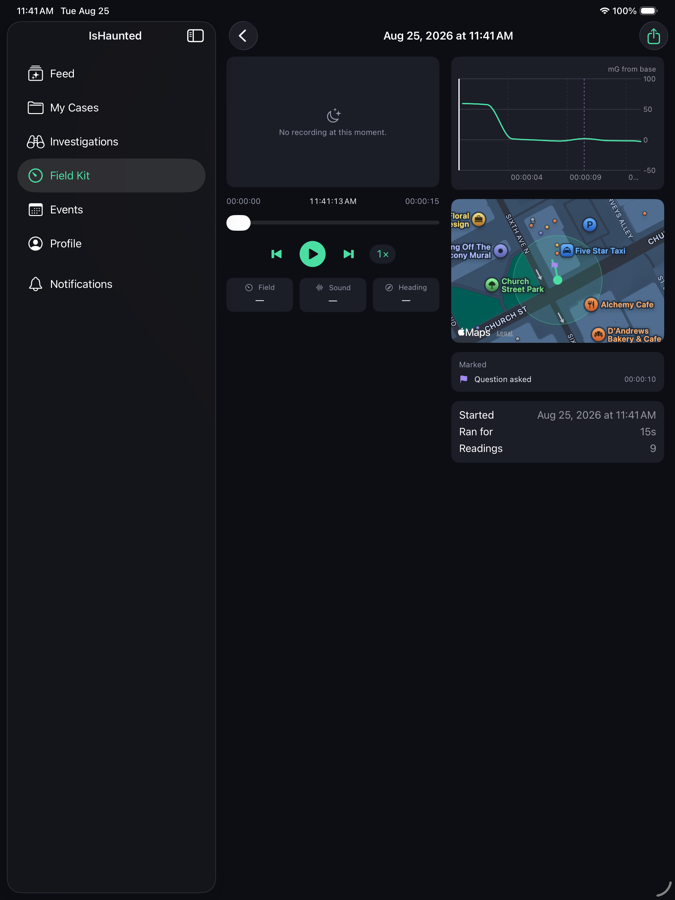
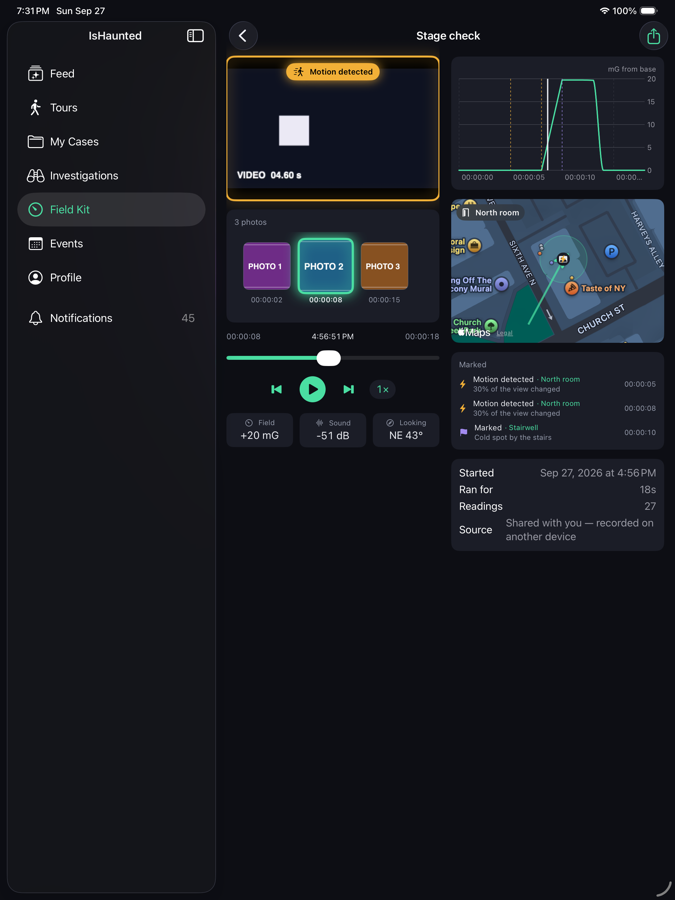
iOS: the iPad New session sheet shows its button; the lit photo keeps its time readable; help pictures
Found capturing the help: on iPad Open the session was below the fold of the form sheet,
and a place name the phone filled in was sometimes called 'your own words' (a flag raced
onChange). On the phone the grown thumbnail covered its time, green on green, and its
glow smeared over its neighbours. New captures for the New session sheet, Public
sessions and the review on iPhone and iPad; the capture signs out before switching
accounts, since a restored session beats -autoSignIn.

diff --git a/Ben.iOS/IsHauntedUITests/HelpMediaCaptureTests.swift b/Ben.iOS/IsHauntedUITests/HelpMediaCaptureTests.swift
@@ -50,6 +50,25 @@ final class HelpMediaCaptureTests: XCTestCase {
         Thread.sleep(forTimeInterval: seconds)
     }
 
+    /// Relaunches signed in as somebody else, with scripted sensors.
+    ///
+    /// Signs the current account out first. `-autoSignIn` is a no-op over a restored session
+    /// (`SessionStore.signIn` returns unless signed out), so relaunching with James's credentials
+    /// after `setUp` signed Daniel in kept Daniel — and the Field Kit pictures were of an account
+    /// with nothing on the server, with no error anywhere (2026-09-27).
+    private func relaunch(as email: String, password: String) {
+        settle(4)   // let setUp's own sign-in land before undoing it
+        if AppNavigator.openSection("Profile", in: app, timeout: 20) {
+            let signOut = app.descendants(matching: .any)["Sign out"].firstMatch
+            for _ in 0..<4 where !signOut.exists { app.swipeUp() }
+            if signOut.exists { signOut.tap(); settle(3) }
+        }
+        app.terminate()
+        app.launchArguments = apiArguments + ["-fieldKitFakeSensors", "-autoSignIn", "\(email):\(password)"]
+        app.launch()
+        settle(6)
+    }
+
     /// My evidence — the guest's own copy of what they photographed at somebody's public event.
     ///
     /// Daniel is the account on purpose: he belongs to no group and has a confirmed attendance at
@@ -129,12 +148,8 @@ final class HelpMediaCaptureTests: XCTestCase {
     func testCaptureFieldKitBundles() {
         let email = ProcessInfo.processInfo.environment["BEN_MEMBER_EMAIL"] ?? "james.thornton@benco.dev"
         let password = TestSecrets.required("BEN_MEMBER_PASSWORD")
-        settle(4)
-        app.terminate()
         // Scripted sensors: a simulator has no magnetometer, and the Field Kit refuses to open without one.
-        app.launchArguments = apiArguments + ["-fieldKitFakeSensors", "-autoSignIn", "\(email):\(password)"]
-        app.launch()
-        settle(6)
+        relaunch(as: email, password: password)
 
         XCTAssertTrue(AppNavigator.openSection("Field Kit", in: app), "Could not reach the Field Kit.")
         settle(3)
@@ -157,6 +172,76 @@ final class HelpMediaCaptureTests: XCTestCase {
         }
         settle(1)
         snap("iphone-review-imported")
+    }
+
+    /// The New session sheet, Public sessions, and a review at the moment a photograph glows and the
+    /// camera saw motion (2026-09-27).
+    ///
+    /// James again, for the same reason as above — and because the review is his own "Stage check"
+    /// sent up by the browser tests, the one session on the stack with a video, its sound, three
+    /// photographs and a Motion detected mark at 0:08. Set the simulator's location near the seeded
+    /// places first (`xcrun simctl location <udid> set 36.1627,-86.7816`), or the sheet has no place
+    /// to offer and the public list is empty. Runs on either device; the names follow it.
+    func testCaptureStartAndPublicAndReview() throws {
+        let email = ProcessInfo.processInfo.environment["BEN_MEMBER_EMAIL"] ?? "james.thornton@benco.dev"
+        let password = TestSecrets.required("BEN_MEMBER_PASSWORD")
+        let device = UIDevice.current.userInterfaceIdiom == .pad ? "ipad" : "iphone"
+        relaunch(as: email, password: password)
+
+        XCTAssertTrue(AppNavigator.openSection("Field Kit", in: app), "Could not reach the Field Kit.")
+        settle(2)
+        AppNavigator.startNewSession(in: app)
+        XCTAssertTrue(app.buttons["confirm-start-session"].waitForExistence(timeout: 15))
+        // The place and the nearby count arrive after the sheet does — a first launch's position
+        // takes a while, and the first capture was of "Finding where you are…".
+        let label = app.textFields["session-label"].firstMatch
+        let placeholder = label.placeholderValue ?? ""
+        for _ in 0..<30 {
+            let value = label.value as? String ?? ""
+            if !value.isEmpty, value != placeholder { break }
+            settle(1)
+        }
+        settle(2)
+        snap("\(device)-new-session")
+        app.buttons["Cancel"].firstMatch.tap()
+        settle(1)
+
+        let find = app.buttons["find-public-sessions"].firstMatch
+        XCTAssertTrue(find.waitForExistence(timeout: 10), "Find public sessions should be on the Field Kit.")
+        find.tap()
+        XCTAssertTrue(app.descendants(matching: .any)["public-session-row"].firstMatch.waitForExistence(timeout: 20),
+                      "Public sessions near the simulator's location should be listed.")
+        settle(2)
+        snap("\(device)-public-sessions")
+        app.navigationBars.buttons.firstMatch.tap()
+        settle(2)
+
+        // Downloaded by an earlier run, it is in the phone's own list instead of the server's.
+        let download = app.buttons.matching(NSPredicate(format: "label == %@", "Download Stage check to this phone")).firstMatch
+        let onThePhone = app.buttons.matching(NSPredicate(format: "label BEGINSWITH %@", "Stage check")).firstMatch
+        // A List draws rows only near the screen, and a simulator that has run the suite holds a long list.
+        _ = download.waitForExistence(timeout: 8)
+        for _ in 0..<12 where !(download.exists && download.isHittable) && !(onThePhone.exists && onThePhone.isHittable) {
+            app.swipeUp()
+        }
+        if download.exists {
+            download.tap()
+        } else if onThePhone.exists {
+            onThePhone.tap()
+        } else {
+            let tree = XCTAttachment(string: app.debugDescription)
+            tree.name = "field-kit-without-stage-check"
+            tree.lifetime = .keepAlways
+            add(tree)
+            throw XCTSkip("no \"Stage check\" on the server or the phone for this account — run the browser FieldSessionStageTests first")
+        }
+        let scrubber = app.sliders["replay-scrubber"].firstMatch
+        XCTAssertTrue(scrubber.waitForExistence(timeout: 30), "The downloaded session should open on its review.")
+        settle(3)
+        // 0:08.6 of 0:18: the second photograph is lit and Motion detected is showing.
+        scrubber.adjust(toNormalizedSliderPosition: 8.6 / 18)
+        settle(1)
+        snap("\(device)-review")
     }
 
     /// During the event: the event's own screen, its programme, a menu and the room (item 235 phase 14b).

diff --git a/Ben.iOS/IsHaunted/Features/FieldKit/SessionReviewView.swift b/Ben.iOS/IsHaunted/Features/FieldKit/SessionReviewView.swift
@@ -345,15 +345,16 @@ struct SessionReviewView: View {
                     .font(.caption).foregroundStyle(Theme.fog)
                 ScrollViewReader { proxy in
                     ScrollView(.horizontal, showsIndicators: false) {
-                        HStack(spacing: 8) {
+                        // Room for a thumbnail grown by 15% with its ring and glow — between
+                        // neighbours and at the strip's edges — or the lit one smears over the
+                        // photos beside it and its glow is cut off flat at the top.
+                        HStack(spacing: 18) {
                             ForEach(photos) { photo in
                                 photoThumbnail(photo).id(photo.id)
                             }
                         }
-                        // Room for a thumbnail grown by 15% and its glow, or the first one is
-                        // cut off at the strip's edge while it is lit.
-                        .padding(.horizontal, 10)
-                        .padding(.vertical, 10)
+                        .padding(.horizontal, 14)
+                        .padding(.vertical, 16)
                     }
                     // Keeps the photo the playhead last passed in view, so the glow is seen.
                     .onChange(of: ReplayPhotos.lastPassed(photos, at: replay.playhead)?.id) { _, id in
@@ -375,7 +376,8 @@ struct SessionReviewView: View {
         let glowing = ReplayPhotos.isGlowing(photo, at: replay.playhead)
         let url = store.files.fileURL(for: sessionId, relativePath: photo.relativePath)
         return Button { expand(photo) } label: {
-            VStack(spacing: 3) {
+            // Spaced for the grown thumbnail, which would otherwise sit on its own time.
+            VStack(spacing: 9) {
                 ZStack {
                     if expandedPhoto?.id == photo.id {
                         // Its place in the strip is kept while it is out, so it has somewhere to
@@ -400,9 +402,10 @@ struct SessionReviewView: View {
                 .shadow(color: glowing ? Theme.ecto.opacity(0.9) : .clear, radius: glowing ? 8 : 0)
                 .scaleEffect(glowing ? 1.15 : 1)
                 .animation(.spring(duration: 0.35), value: glowing)
+                // Full contrast while lit — green on the green glow could not be read.
                 Text(SessionClock.elapsed(from: replay.timeline.startedAt, to: photo.at))
-                    .font(.caption2.monospacedDigit())
-                    .foregroundStyle(glowing ? Theme.ecto : Theme.fog)
+                    .font(.caption2.monospacedDigit().weight(glowing ? .semibold : .regular))
+                    .foregroundStyle(glowing ? Theme.bone : Theme.fog)
             }
         }
         .buttonStyle(.plain)

diff --git a/Ben.iOS/IsHaunted/Features/FieldKit/FieldKitHomeView.swift b/Ben.iOS/IsHaunted/Features/FieldKit/FieldKitHomeView.swift
@@ -180,6 +180,10 @@ struct FieldKitHomeView: View {
                 await start(label: label, investigation: investigation, channels: channels)
             }
             .environment(dependencies)
+            // On an iPad the default form sheet is shorter than the sheet, so Open the session —
+            // its only action — sat below the fold where nobody would look for it. A page-sized
+            // sheet shows it; on an iPhone this changes nothing.
+            .presentationSizing(.page)
         }
         // Ben, 2026-09-27: "If they have recorded a session, just save it and ask if they want to
         // create a new one when they hit the start button instead of making them deal with it
@@ -424,9 +428,12 @@ private struct StartSessionSheet: View {
     var onStart: (String?, MyInvestigation?, CaptureChannels) async -> Void
 
     @State private var label = ""
-    /// Whether the label is still the phone's suggestion — replaced when a better one arrives, never
-    /// once somebody has typed their own.
-    @State private var labelIsSuggested = false
+    /// The phone's last suggestion for the label. The label is still that suggestion — replaced when
+    /// a better one arrives, never once somebody has typed their own — while the two are equal. A
+    /// flag set in a deferred task and cleared by `onChange` raced on the iPad, and the footer then
+    /// called a name the phone filled in "your own words".
+    @State private var suggestedLabel: String?
+    private var labelIsSuggested: Bool { suggestedLabel != nil && label == suggestedLabel }
     @State private var channels: CaptureChannels = .default
     @State private var investigations: [MyInvestigation] = []
     /// Selected by id, not by value — MyInvestigation is a server-shaped record and making it
@@ -556,7 +563,6 @@ private struct StartSessionSheet: View {
     private var whereSection: some View {
         Section {
             TextField("Where are you? (Old Mill, back bedroom)", text: $label)
-                .onChange(of: label) { _, _ in labelIsSuggested = false }
                 .accessibilityIdentifier("session-label")
 
             switch locator.access {
@@ -611,9 +617,8 @@ private struct StartSessionSheet: View {
 
     private func useName(_ name: String?) {
         guard let name, !name.isEmpty else { return }
+        suggestedLabel = name
         label = name
-        // Set after the text change, which clears the flag for anything typed.
-        Task { @MainActor in labelIsSuggested = true }
     }
 
     /// Where the phone is, and what that suggests: a name, nearby investigations, public sessions.

diff --git a/ProjectNotes/FeatureHistory/README-ios-field-session-feedback.md b/ProjectNotes/FeatureHistory/README-ios-field-session-feedback.md
@@ -81,3 +81,77 @@ Then, as next steps in the same arc:
 
 A simulator has no camera and a Mac microphone. Loudness and whole-session video must be checked
 on Ben's iPhone before this ships; `RecordingGain.decibels` is the single number to adjust.
+
+## Later asks folded in (09/27/2026)
+
+- **Start with a session still open** saves a recording one and replaces an unstarted one, after
+  asking — Ben: "just save it and ask if they want to create a new one".
+- **Motion photos**: a detection while the phone is still also takes a photograph.
+- **Thumbnails grow a little while they glow; tapping one pauses and shows it full size, tapping
+  again carries on playing** — phone and web alike.
+- **Refused permissions** (camera, microphone, location, speech, notifications) say so and offer
+  Settings wherever something needs them.
+- **Upload allowance**: 10 minutes of video and 600 MB per upload (was 5 and 500), with **Send
+  without the video**.
+
+## What testing found (and fixed)
+
+Walked on the iPhone 17 Pro simulator, in real Chrome, and through the API, against a local server
+on `IsHauntedDb_e2e`, with a session written by the phone's own code
+(`TestSessionBundleBuilder.swift`; the short profile is the browser tests' fixture).
+
+- Photo thumbnails overlapped (a `.fill` image sized on a container that clips nothing); the lit
+  thumbnail was cut off at the strip's edge; the full-size photo sat on a grey card under the bars.
+- The server counted every photo, video and sound note as a mark ("8 marked" for 3). Fixed at the
+  door, in the web player's list, and for stored sessions by `FieldSessionMarkerRecountService`.
+- Every review opened at 0:00 said "No recording at this moment" — the recorder starts a few
+  milliseconds after the clock. A clip within a second of the playhead now covers it, phone and web.
+- After **Open Settings**, no permission prompt on that screen appeared again (the alert's state
+  was never cleared while the app went to the background).
+- EVP mode's Start recording failed silently with the microphone refused; three screens opened a
+  black system camera with the camera refused.
+- A refused microphone produced a silent recording with no warning (found while building).
+- The web player's icons, Play and Pause included, never drew: Bootstrap Icons classes on a site
+  that does not load that font. Nine other pages have the same problem — flagged separately.
+- Tests: the Field Kit UI suites cascaded from one unstarted session into the new save-and-start
+  question; `AppNavigator.startNewSession` answers it. `RealAppSessionReplayTests` had a hard-coded
+  room.
+
+Second pass (the trim suite against a local API, the iPad, and the help captures):
+
+- **Send screen**: the "what will be sent" summary and **Send the whole session** sat under the
+  preview, a screen below the handles — a List had not even drawn them. They are under the handles
+  now. The trim UI tests had only ever been skipped; run against a local API they caught it.
+- **iPad New session sheet**: **Open the session**, its only action, was below the fold of the form
+  sheet. It is page-sized on iPad now.
+- **iPad place name**: a name the phone filled in was sometimes footnoted "your own words" — a flag
+  set in a deferred task raced `onChange`. It is a comparison with the suggestion now.
+- **Phone photo strip**: the lit thumbnail covered its own time, the time was green on the green
+  glow, and the glow smeared over the photos beside it and was cut flat at the top.
+- **Web player, dark theme**: the lit photo's time was Bootstrap-info purple on a dark page, the eye
+  on Motion detected all but vanished and wrapped above the words, and a grown thumbnail covered its
+  neighbours. It glows the phone's green now.
+- **Server counts**: confirmed on a restarted API — the recount put both public copies' "8 marked"
+  back to 3.
+- Test harness: the new help capture photographed Daniel instead of James (a restored session
+  beats `-autoSignIn`); it signs out first now, and so does the existing Field Kit capture, which
+  had the same flaw. `AboutPrivacyUITests` needs a reset simulator keychain, like the captures.
+
+UI suites run on the iPhone 17 Pro Max against the local API: AboutPrivacy 2, DeleteAccount 3,
+FieldKitChannels 3, FieldKit 18, SessionStart 4, SessionTrim 3 — all pass. EverySurface,
+CaseMessages, LogOccurrence and CaseReports were not run: they take no API address, so they would
+sign in to whatever host the Dev build names.
+
+## Still to check on a real iPhone
+
+- **Loudness.** `RecordingGain.decibels` (18) is the one number to adjust.
+- **Whole-session video**: battery, heat and storage over a long session, and backgrounding.
+- **Open Settings** lands on the top of Settings in the simulator; on a device it should open
+  IsHaunted's own page.
+
+## Before the next App Store submission
+
+- The review notes said the app makes no geocoding call. It now asks Apple for the street address
+  of the phone's position on the New session sheet (and Tours already geocoded a typed place). The
+  notes need a line saying so; App Privacy already declares location for App Functionality.
+- The tour plan's own five-minute limit per recording still applies to groups on that plan.

diff --git a/Ben.Web.Services/Help/Content/the-mobile-apps.md b/Ben.Web.Services/Help/Content/the-mobile-apps.md
@@ -79,6 +79,9 @@ is still identified in that cellar.
    you. If you are not on one, leave it; you can attach the session to an investigation later.
    If other people have published sessions recorded near here, the sheet says how many — tap it to
    play what they found before you start.
+
+   ![The New session sheet, filled in from where the phone is](/help/media/the-mobile-apps/iphone-new-session.png)
+
 4. Under **What to record**, choose the channels: magnetic field, sound, video and location, each
    with what it costs in battery. Magnetic field, sound and location start on and **video starts
    off**, because video is the one that ends a night early. All four can be changed later while
@@ -276,7 +279,7 @@ thumbnail** to pause and see the photograph at full size; tap it again and it go
 strip and playback carries on where it was. Photos taken indoors, with no position, are in the
 strip too — the map only shows the ones that had one.
 
-![Reviewing a session — the trace, the map and what was marked](/help/media/the-mobile-apps/iphone-review.png)
+![Reviewing a session — the video with its sound, a photograph glowing in the strip, and Motion detected](/help/media/the-mobile-apps/iphone-review.png)
 
 On an iPad the same screens use the extra width, putting the instruments beside the log while
 recording and the trace beside the map while reviewing.
@@ -450,6 +453,8 @@ public archive — **near you**, or at a place you **search for** by name or tow
 "louisville"). Each row says where, when, who recorded it and what it holds. **Download** brings it
 to your phone, where it plays like any other session and is marked *public archive*. The New
 session sheet also says when public sessions were recorded near where you are standing.
+
+![Public sessions recorded near where the phone is](/help/media/the-mobile-apps/iphone-public-sessions.png)
 
 What you download is the archive's **public copy**. Its readings, marks, rooms and notes are the
 recorder's own, but every position is the place's **public point** — the same approximate one its
